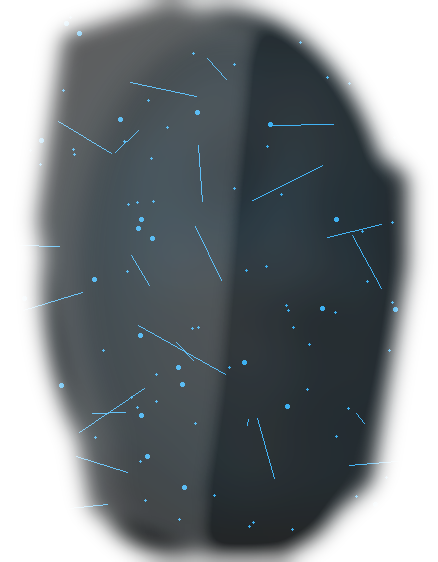
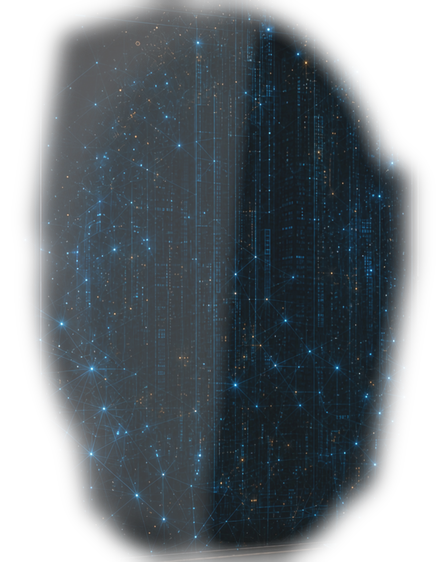
Improve face clean plate

diff --git a/index.html b/index.html
@@ -8,9 +8,9 @@
 <title>Rafal Wilk Digital Workshop ©</title>
 <link rel="preload" as="image" fetchpriority="high" href="assets/images/private-command-center-hero-polo-beads.webp?v=20260713-polo-beads-1"/>
 <link rel="preload" as="image" href="assets/images/private-command-center-human-eyelid-blink-sprite.png?v=20260715-human-blink-3"/>
-<link rel="preload" as="image" href="assets/images/private-command-center-assistant-face-cleanplate.png?v=20260715-face-cutout-2"/>
+<link rel="preload" as="image" href="assets/images/private-command-center-assistant-face-cleanplate.png?v=20260715-face-cutout-3"/>
 <link rel="preload" as="image" href="assets/images/private-command-center-assistant-face-cutout.png?v=20260715-face-cutout-2"/>
-<link rel="preload" as="style" href="assets/css/platform-v2.css?v=20260715-face-cutout-2"/>
+<link rel="preload" as="style" href="assets/css/platform-v2.css?v=20260715-face-cutout-3"/>
 <style id="rw-critical-home-boot">
   html{background:#05080d}
   body:not(.rw-v2-ready):not(.app-open){
@@ -4540,7 +4540,7 @@ select.rw-input{appearance:none;-webkit-appearance:none;background-image:linear-
   setTimeout(install, 2200);
 })();
 </script>
-<link rel="stylesheet" href="assets/css/platform-v2.css?v=20260715-face-cutout-2">
+<link rel="stylesheet" href="assets/css/platform-v2.css?v=20260715-face-cutout-3">
 <style id="rw-hide-title-clock-override">
 body.rw-v2-ready:not(.app-open) header.rw-header,
 body.rw-v2-ready:not(.app-open) .rw-v2-hero-poster .rw-v2-brand-lockup,
@@ -4550,4 +4550,4 @@ body.rw-v2-ready:not(.app-open) .rw-v2-wall-clock{
 }
 </style>
 <script src="assets/js/contact-config.js?v=[phone redacted]"></script>
-<script src="assets/js/platform-v2.js?v=20260715-blink-more-frequent-1"></script>
+<script src="assets/js/platform-v2.js?v=20260715-face-cutout-3"></script>

diff --git a/assets/css/platform-v2.css b/assets/css/platform-v2.css
@@ -7849,8 +7849,8 @@ body.rw-v2-ready:not(.app-open) .rw-v2-assistant-face-cutout{
 
 body.rw-v2-ready:not(.app-open) .rw-v2-assistant-face-plate{
   z-index:117!important;
-  background-image:url("../images/private-command-center-assistant-face-cleanplate.png?v=20260715-face-cutout-2")!important;
-  opacity:1!important;
+  background-image:url("../images/private-command-center-assistant-face-cleanplate.png?v=20260715-face-cutout-3")!important;
+  opacity:.86!important;
 }
 
 body.rw-v2-ready:not(.app-open) .rw-v2-assistant-face-cutout{